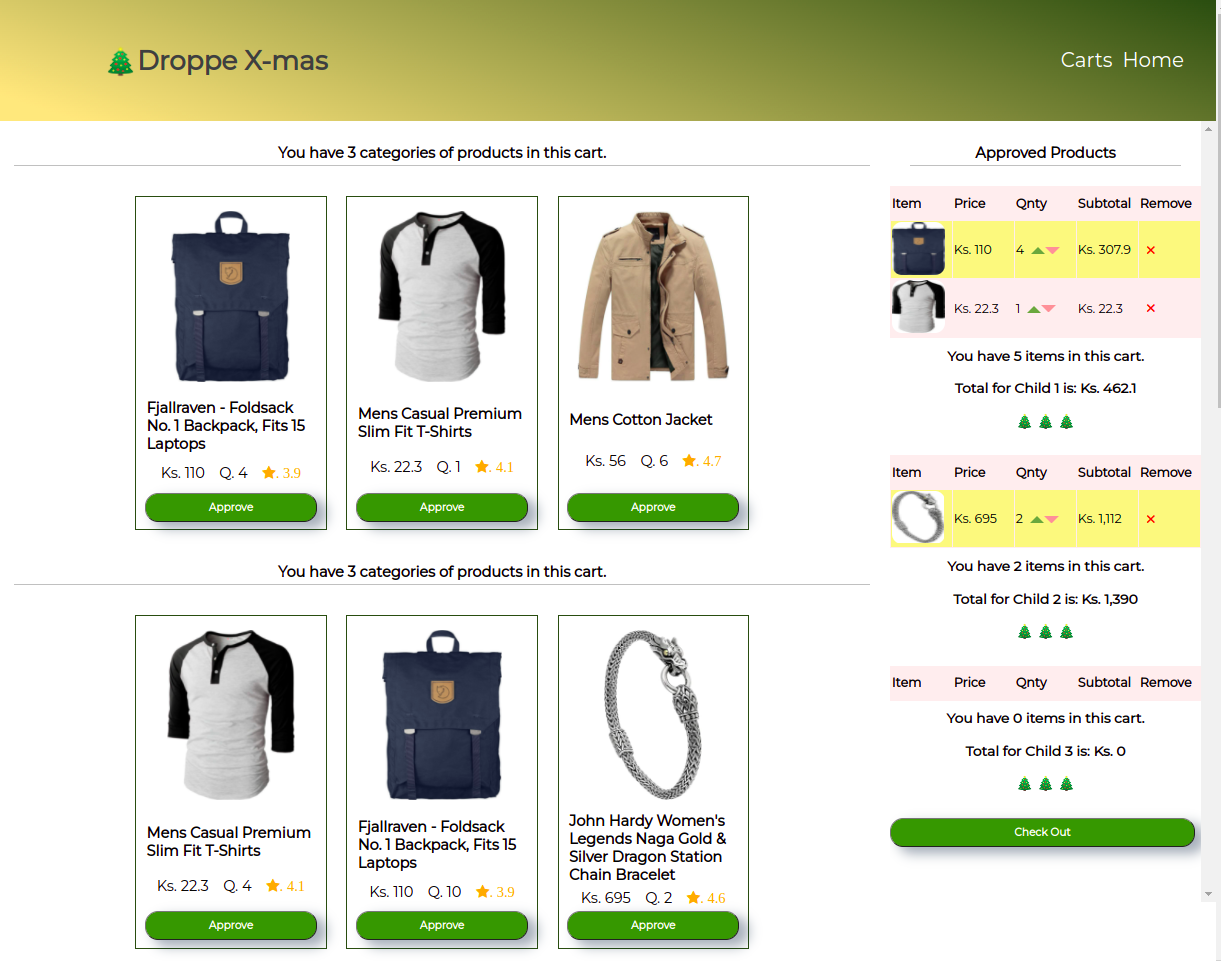
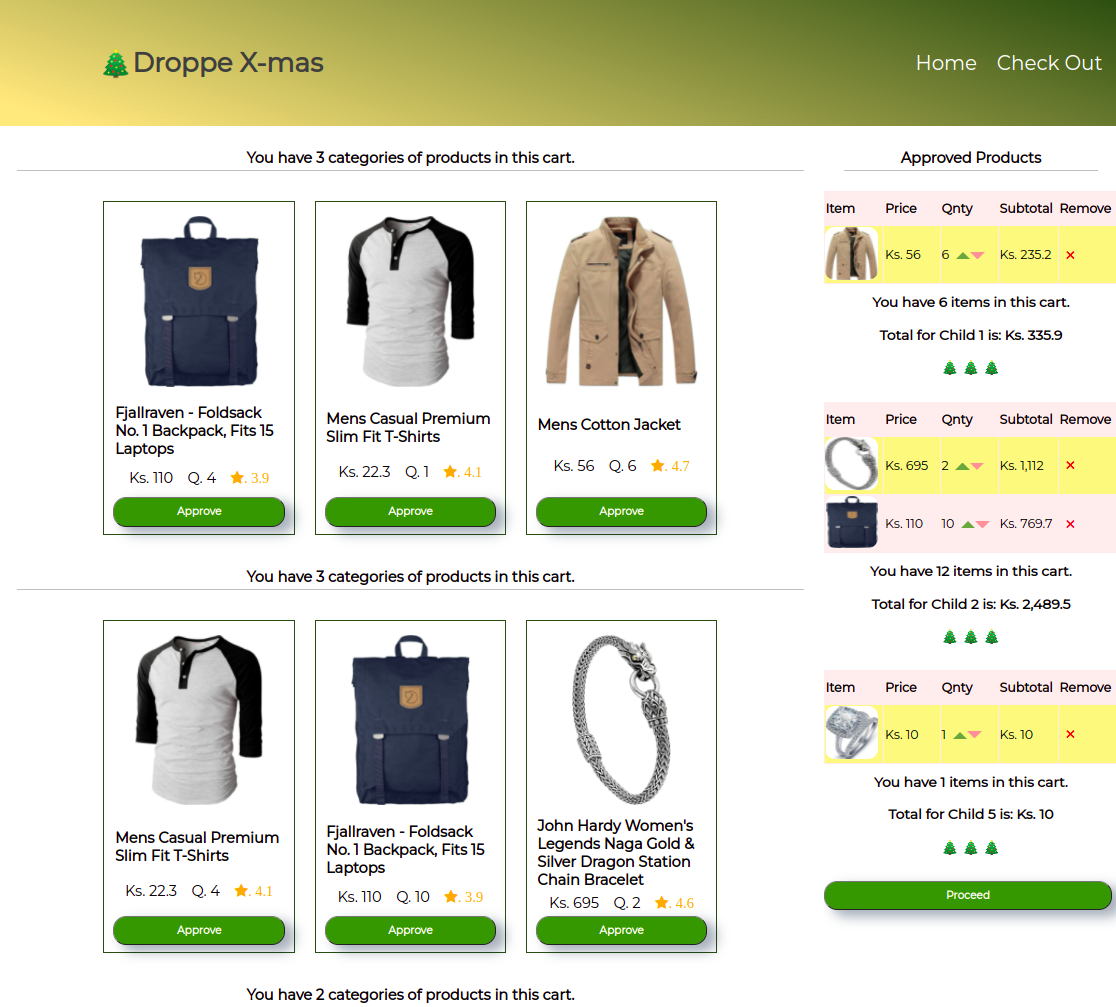
components refactor

diff --git a/src/App.js b/src/App.js
@@ -5,9 +5,15 @@ import formatCurrency from "./util"
 import ApprovedTable from "./components/ApprovedTable"
 import Header from "./components/Header"
 import Footer from "./components/Footer"
-import Main from "./components/Main"
+// import Main from "./components/Main"
 import Modal from './components/Modal';
 import useModal from './components/useModal'
+// import Checkoutpage from "./components/Checkoutpage"
+
+import { BrowserRouter, Routes, Route } from "react-router-dom";
+import Layout from "./components/Layout"
+import Main from "./components/Main"
+import Checkoutpage from "./components/Checkoutpage"
 
 
 export default function App(props) {
@@ -124,25 +130,51 @@ export default function App(props) {
      }, [products]);
       
      return (
-       <div className="grid-container">
-         <Header />
-         <Main products={products} 
-               approveItem={approveItem} 
-               cartItems={cartItems} 
-               cartNumber={0}
-               cartProducts={cartProducts}
-               Carts={Carts}
-               approvedProducts={approvedProducts}
-               ApprovedTable={ApprovedTable}
-               removeItem={removeItem}  
-               increaseQuantity={increaseQuantity}            
-               decreaseQuantity={decreaseQuantity}   
-               checkOut={checkOut}         
-                />
-          
-              <Modal visible={visible} checkOut={checkOut} />
-          
-          <Footer />
-        </div>
+      <BrowserRouter>
+      <Routes>
+        <Route path="/" element={<Layout />}>
+          <Route index element={<div className="grid-container">
+                 <Main products={products} 
+                       approveItem={approveItem} 
+                       cartItems={cartItems} 
+                       cartNumber={0}
+                       cartProducts={cartProducts}
+                       Carts={Carts}
+                       approvedProducts={approvedProducts}
+                       ApprovedTable={ApprovedTable}
+                       removeItem={removeItem}  
+                       increaseQuantity={increaseQuantity}            
+                       decreaseQuantity={decreaseQuantity}   
+                       checkOut={checkOut}         
+                        />
+                      {/* <Checkoutpage  approvedProducts={approvedProducts} /> */}
+                      <Modal visible={visible} checkOut={checkOut} />
+                  <Footer />
+                </div>} />
+          <Route path="checkoutpage" element={<Checkoutpage  approvedProducts={approvedProducts} />} />
+        </Route>
+      </Routes>
+      </BrowserRouter>
+
+
+      //  <div className="grid-container">
+      //    <Header />
+      //    <Main products={products} 
+      //          approveItem={approveItem} 
+      //          cartItems={cartItems} 
+      //          cartNumber={0}
+      //          cartProducts={cartProducts}
+      //          Carts={Carts}
+      //          approvedProducts={approvedProducts}
+      //          ApprovedTable={ApprovedTable}
+      //          removeItem={removeItem}  
+      //          increaseQuantity={increaseQuantity}            
+      //          decreaseQuantity={decreaseQuantity}   
+      //          checkOut={checkOut}         
+      //           />
+      //         {/* <Checkoutpage  approvedProducts={approvedProducts} /> */}
+      //         <Modal visible={visible} checkOut={checkOut} />
+      //     <Footer />
+      //   </div>
       );
 }

diff --git a/src/index.css b/src/index.css
@@ -272,7 +272,7 @@ header ul li a {
   font-weight: 700;
 }
 
-.cart-bottom-price{
+.cart-bottom-price {
   margin: 1.5rem 0 1rem 0;
   font-weight: 750;
   font-size: 2.1rem;
@@ -383,7 +383,7 @@ table th {
 
 /* SIDEBAR END */
 
-/* CHECKOUT Modal */
+/* PROCEED Modal and CHECKOUT TABLE*/
 
 .checkout {
   width: 100%;
@@ -393,12 +393,29 @@ table th {
   top: 0;
   justify-content: center;
   align-items: center;
-  background: #afafaf;
+  background: #ffeded;
 }
 
 .checkout-table {
-  width: 50%;
-  height: 50vh;
+  width: 75%;
+  height: 65%;
+  font-size: 2.2rem;
+  color: #5a8a00;
+}
+
+.checkout-table th tr {
+  display: flex;
+  justify-content: center;
+  align-items: center;  
+}
+
+.checkout-title {
+  display: flex;
+  justify-content: center;
+  align-items: center;
+  font-size: 3.5rem;
+  font-weight: 800;
+  text-decoration: underline;
 }
 
 .modal-pop {
@@ -424,7 +441,7 @@ table th {
   width: 100%;
   height: 100vh;
   z-index: 99;
-  background-color: #000;
+  background-color: #9e9595;
   opacity: .95;
   display: flex;
   justify-content: center;
@@ -437,11 +454,16 @@ table th {
 }
 
 .check-title {
-  padding: 23px;
-  text-decoration: underline overline;
+  text-decoration: overline;
 } 
 
-/* CHECKOUT */
+.check-title,
+.check-p {
+  font-size: 3.5rem;
+  color: #062e07;
+  padding: 23px;
+}
+/* PROCEED MODAL end */
 
 /* FOOTER */
 footer{

diff --git a/src/components/Layout.js b/src/components/Layout.js
@@ -1,0 +1,39 @@
+import { Outlet, Link } from "react-router-dom";
+
+const Layout = () => {
+  return (
+    <>
+    <header className="header">
+          <div>
+            &#127876;
+          </div>
+          <h4>Droppe X-mas</h4>
+          <ul className='header-links'>
+            <li>
+                <a href="./">
+                    <li>
+                        <Link to="/">Home</Link>
+                    </li>
+                </a>
+            </li>
+            <li>
+              <Link to="/checkoutpage">Check Out</Link>
+          </li>
+          </ul>
+        </header>
+      {/* <header>
+        <ul> 
+          <li>
+            <Link to="/">Home</Link>
+          </li>
+          <li>
+            <Link to="/checkoutpage">Check Out</Link>
+          </li>
+        </ul>
+        </header> */}
+      <Outlet />
+    </>
+  )
+};
+
+export default Layout;

diff --git a/src/components/Checkoutpage.jsx b/src/components/Checkoutpage.jsx
@@ -1,5 +1,6 @@
 import React from 'react';
 import formatCurrency , {getSingleProductQuantity, getTotalPrice, getTotalCartProductQuantity} from "../util"
+import Checkoutbutton from './Checkbutton';
 
 
 function Checkoutpage(props) {
@@ -9,12 +10,12 @@ function Checkoutpage(props) {
 
   return (<div className='checkout'> 
     <table className='checkout-table'>
-    <tr>
+    <tr className='checkout-title'>
       Check Out
     </tr>  
     <tr>
       <th>Carts</th>
-      <th>{props.totalCartProductQuantity}</th>
+      <th>Number of items</th>
       <th>Cart Total</th>
     </tr>
     {
@@ -34,6 +35,8 @@ function Checkoutpage(props) {
       ,0)}</td>
     </tr>
   </table>
+  {/* <Checkoutbutton checkOut={props.checkOut}/> */}
+
 </div>);
 }
 

diff --git a/src/components/Main.jsx b/src/components/Main.jsx
@@ -3,7 +3,7 @@ import ApprovedCart from './ApprovedCart'
 import ApprovedTable from './ApprovedTable';
 import Carts from './Carts'
 import Checkoutbutton from './Checkbutton';
-// import Checkoutpage from './Checkoutpage';
+import Checkoutpage from './Checkoutpage';
 import Loading from './Loading'
 
 export default function Main(props) {
@@ -41,7 +41,6 @@ export default function Main(props) {
           <div className="total-title">
               Total: {props.approvedProducts.length ? props.totalPrice : 0 }
         </div>
-        {/* <Checkoutpage  approvedProducts={props.approvedProducts} /> */}
         </main>) : 
         <Loading />        
       }

diff --git a/src/components/Modal.jsx b/src/components/Modal.jsx
@@ -6,8 +6,9 @@ const Modal = ({ visible, checkOut }) => visible ? ReactDOM.createPortal(
     
     <div className="modal-overlay">
       <div className="modal-pop" role="dialog" aria-modal="true">
-        <div className="check-title"><h3>Check Out</h3></div>
-        <p>Check out Table.</p>
+        <p className="check-p">&#127876;</p>
+        <div className="check-title"><h3>Thank you for Shopping with us.</h3></div>
+        <p className="check-p">Have a Merry Christmas</p>
         <button className="button button-close" type="button" onClick={checkOut}>Close</button>
       </div>  
   </div>    

diff --git a/src/components/Checkbutton.jsx b/src/components/Checkbutton.jsx
@@ -5,17 +5,10 @@ function Checkoutbutton(props) {
   return (<div>
       <button className="button chekout-button"
                onClick={props.checkOut}>
-                Check Out
+                Proceed
         </button >
         {/* <Modal visible={props.visible} checkOut={props.checkOut} /> */}
   </div>);
 }
 
 export default Checkoutbutton;
-
-
-
-{/* <div className="App">
-              <button onClick={checkOut}>Show Modal</button>
-              <Modal visible={visible} checkOut={checkOut} />
-          </div> */}

diff --git a/src/components/ApprovedTable.jsx b/src/components/ApprovedTable.jsx
@@ -11,7 +11,6 @@ export default function ApprovedTable(props) {
     const singleProductQuantity = getSingleProductQuantity(approvedProducts, cartCount)
   
 
-    console.log("******", singleProductQuantity);
     // console.log(totalCartProductQuantity);
 
     //const [approvedProducts, setApprovedProducts] = useState();
